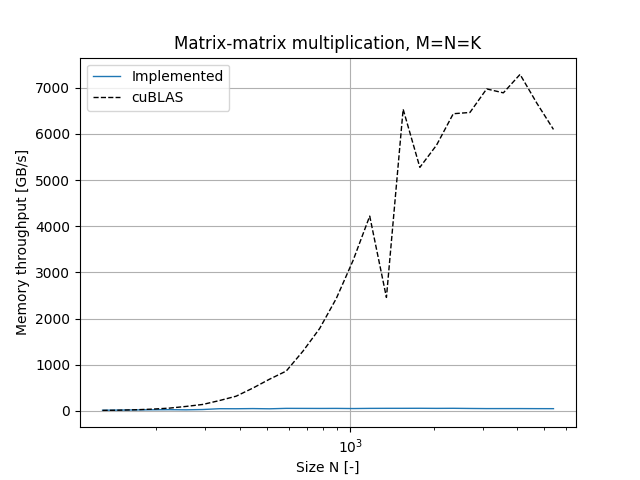
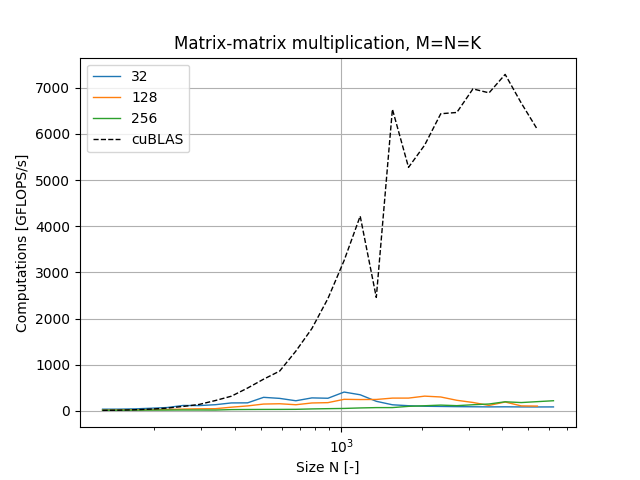
L2

diff --git a/L2/plots.py b/L2/plots.py
@@ -26,21 +26,21 @@ for filename in os.listdir(directory):
         sizeM_vec = [float(line[5]) for line in data]
         mem_vec = [float(line[-2]) for line in data]
         gflops_vec = [float(line[-5]) for line in data]
-        styles = ["-", "-", "-", "-", "-", "-", "k--", "-", "k--", "-", "k--", "-", "k--"]
+        styles = ["-", "-", "-", "-", "k--", "-", "k--", "-", "k--", "-", "-", "-", "k--"]
         #print(mem_vec)
         plt.xscale("log")
         
         
-        if(count == 9 or count == 10):
+        if(count == 7 or count == 8):
             plt.plot(sizeM_vec, mem_vec, styles[count], linewidth=1)
-        elif(count == 11 or count == 12):
+        elif(count > 8 and count < 13):
             plt.plot(sizeN_vec, gflops_vec, styles[count], linewidth=1)
         else:
             plt.plot(sizeN_vec, mem_vec, styles[count], linewidth=1)
         
         #plt.axes((512, 1e8, 0, 256))
-        if count == 6:
-            plt.legend(["32", "64", "128", "256", "512", "1024", "cuBLAS"])
+        if count == 4:
+            plt.legend(["32", "128", "512", "1024", "cuBLAS"])
             plt.grid()
             plt.title("Matrix-vector multiplication, M = N")
             plt.ylabel("Memory throughput [GB/s]")
@@ -48,7 +48,7 @@ for filename in os.listdir(directory):
             plt.savefig("Matvec.png")
             plt.show()
             plt.clf()
-        if count == 8:
+        if count == 6:
             plt.legend(["Implemented", "cuBLAS"])
             plt.grid()
             plt.title("Matrix-vector multiplication, fixed N=10000")
@@ -58,7 +58,7 @@ for filename in os.listdir(directory):
             plt.show()
             plt.clf()
             
-        if count == 10:
+        if count == 8:
             plt.legend(["Implemented", "cuBLAS"])
             plt.grid()
             plt.title("Matrix-vector multiplication, fixed M=16384")
@@ -69,10 +69,10 @@ for filename in os.listdir(directory):
             plt.clf()
             
         if count == 12:
-            plt.legend(["Implemented", "cuBLAS"])
+            plt.legend(["32","128", "256", "cuBLAS"])
             plt.grid()
             plt.title("Matrix-matrix multiplication, M=N=K")
-            plt.ylabel("Memory throughput [GB/s]")
+            plt.ylabel("Computations [GFLOPS/s]")
             plt.xlabel("Size N [-]")
             plt.savefig("Matmat.png")
             plt.show()
